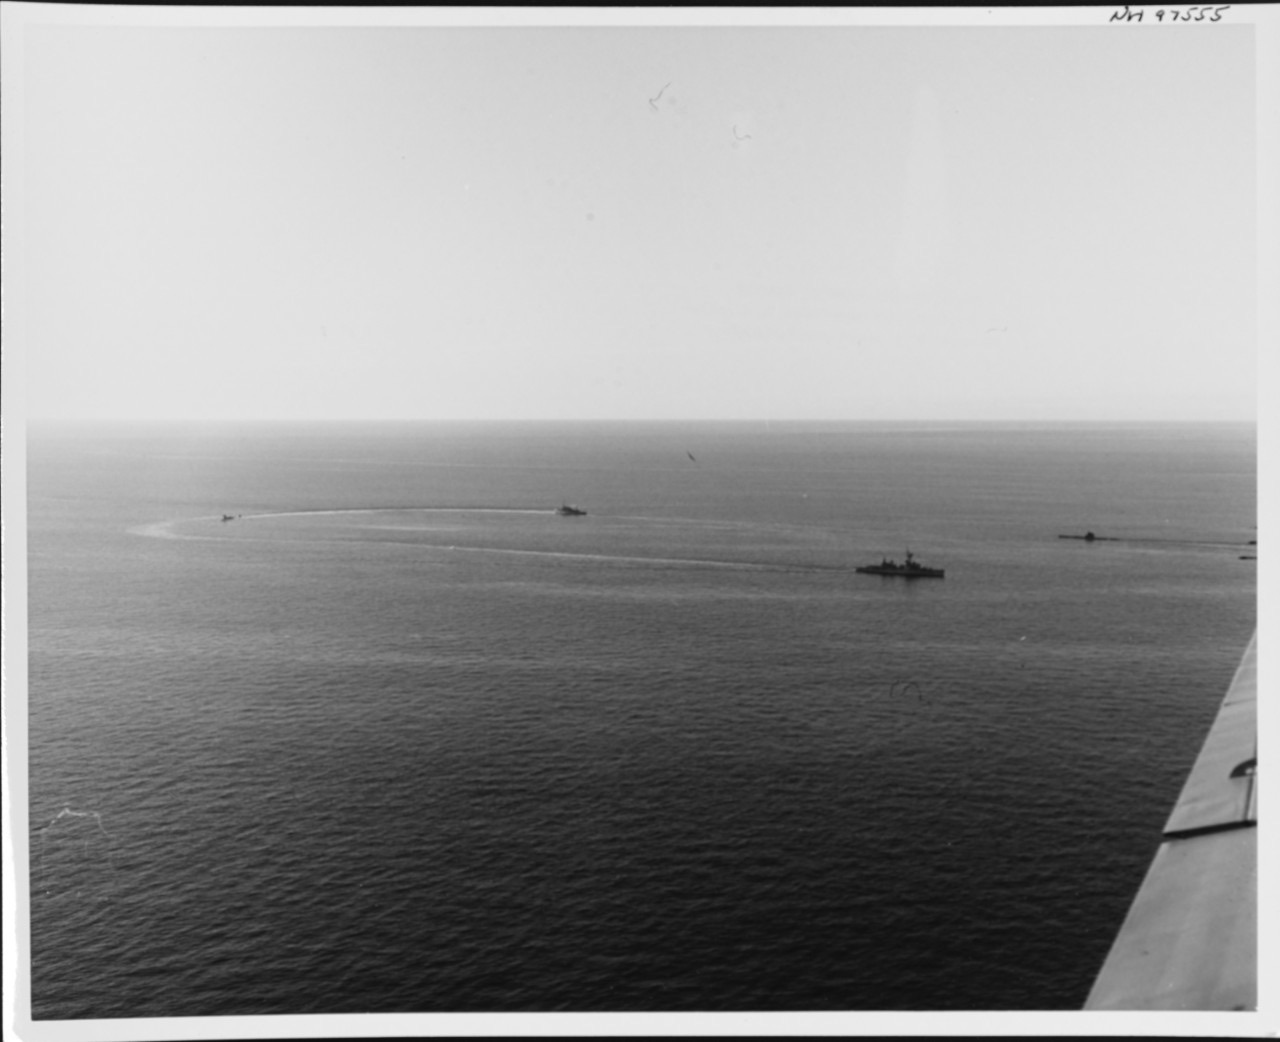
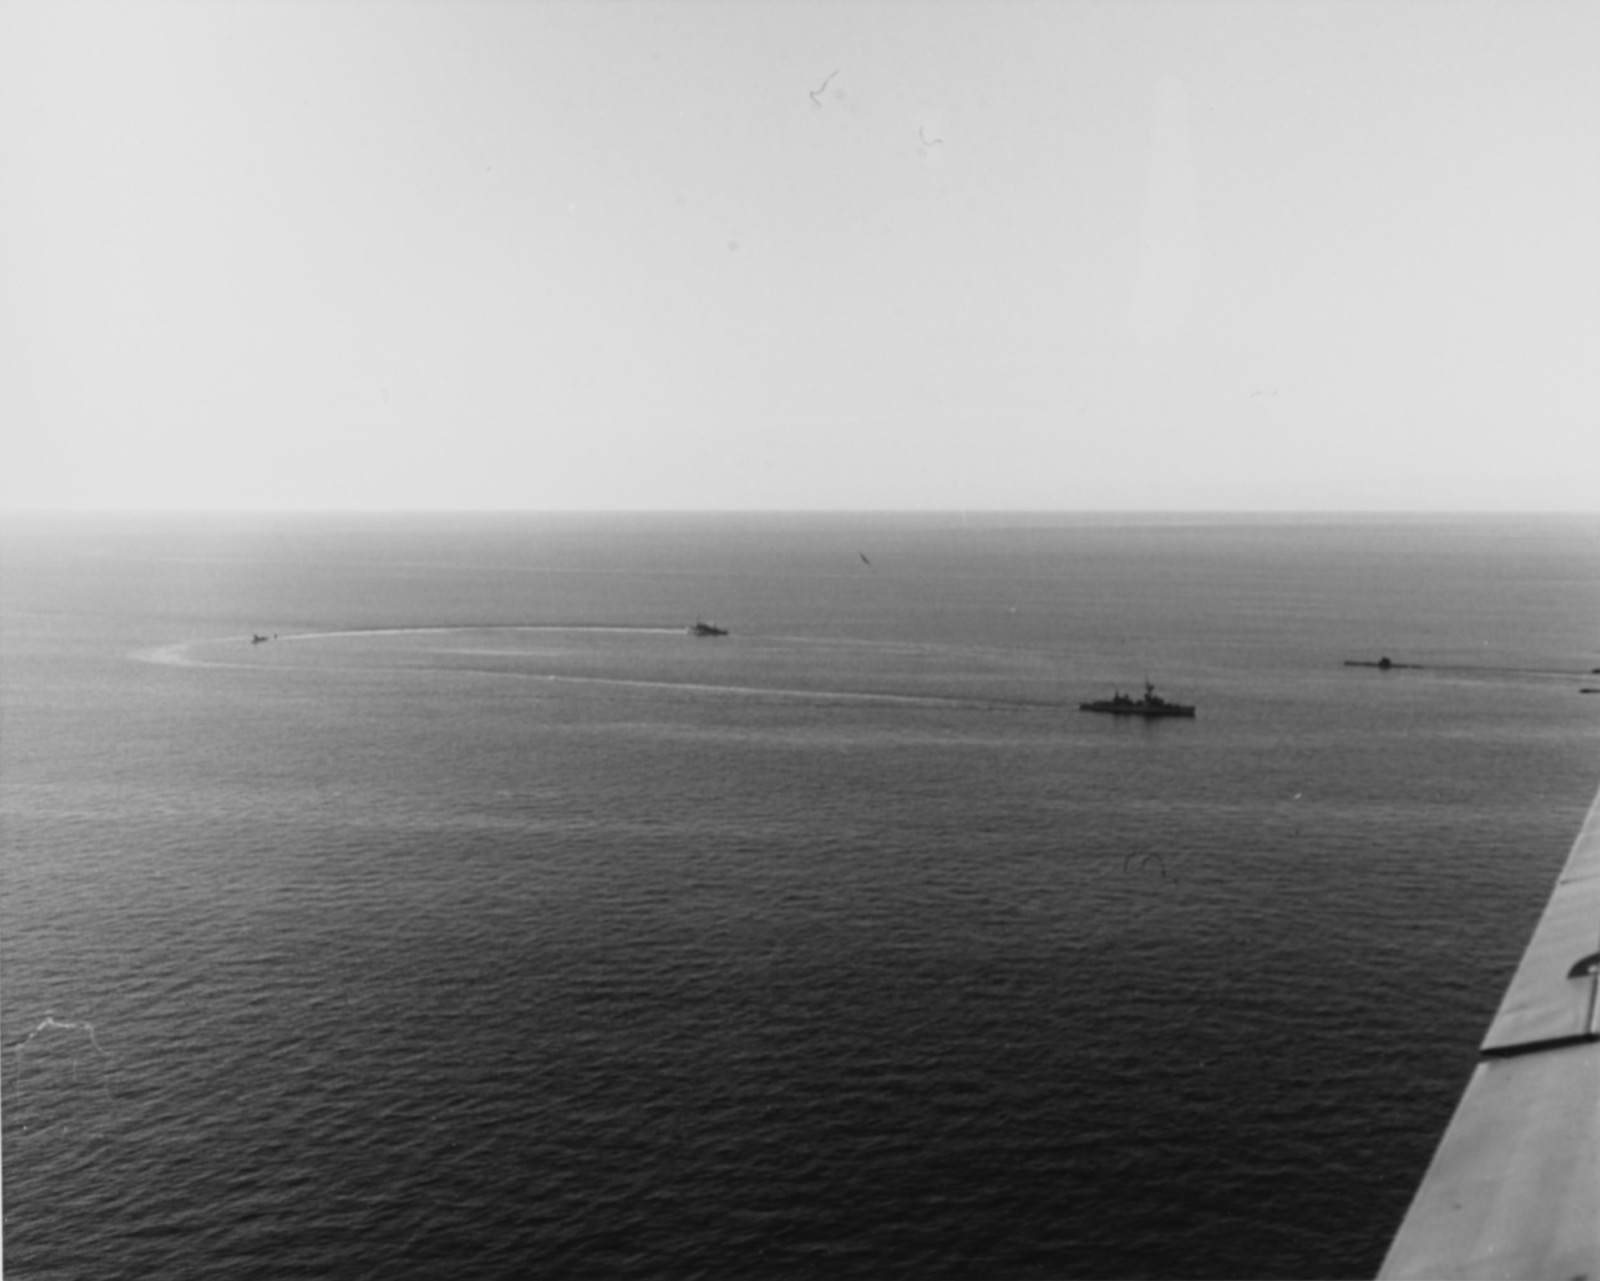
Nine Hundred North: figure tidy-ups from the rights audit
Crop the print borders and handwritten catalogue numbers off the three NHHC
prints (NH 97549 and NH 97555 now from the original TIFFs at 1,600 px, NH 97310
from the medium rendition); correct the Atlantis II debris photograph's date to
May 1963 (released 22 May 1963) in the caption, the text and the younger version.

diff --git a/_posts/2026-10-20-nine-hundred-north.md b/_posts/2026-10-20-nine-hundred-north.md
@@ -120,11 +120,11 @@ Congress's Joint Committee on Atomic Energy, whose staff had sat through the clo
 
 Rickover's testimony on 23 July was the longest. The silver brazing, he said, was a symptom, and "the worst thing that could happen would be for this committee to get off on a sidetrack and think the real issue in the Thresher was this silver brazing versus welding." The issue was that the ship had been built to two standards, his and the Bureau's, and that outside his compartment the specifications were treated as goals. "We are sitting on a quality control precipice where slight deviations can result in unsatisfactory or unsafe products." In the five or six years of her design and building, he counted, Portsmouth had had three shipyard commanders, five planning officers and three design superintendents, and the Bureau two chiefs. "The inadequate ballast tank blowing system is a case in point: Who is responsible? With the present Navy system, this is an almost impossible question to answer." He read the committee what he had told it two years before about the SL-1 reactor accident: "Responsibility is a unique concept: it can only reside and inhere in a single individual. You may share it with others, but your portion is not diminished."
 
-In June a camera towed from the research ship *Atlantis II* photographed scattered debris on the bottom. The bathyscaph *Trieste*, brought from San Diego, made two series of dives, the first from 24 to 30 June and the second in late August, and on 24 August photographed a section of sonar dome and the draft marks 4, 3 and 0 on a piece of hull; the Navy released the pictures in the first week of September. The following summer the research ship *Mizar* found the wreck in five main pieces spread over about a mile. All submarines had meanwhile been restricted to 500 feet.
+In the third week of May a camera towed from the research ship *Atlantis II* photographed scattered debris on the bottom. The bathyscaph *Trieste*, brought from San Diego, made two series of dives, the first from 24 to 30 June and the second in late August, and on 24 August photographed a section of sonar dome and the draft marks 4, 3 and 0 on a piece of hull; the Navy released the pictures in the first week of September. The following summer the research ship *Mizar* found the wreck in five main pieces spread over about a mile. All submarines had meanwhile been restricted to 500 feet.
 
 <figure>
   <img src="/static/img/nine-hundred-north/atlantis-ii-debris-1963.jpg" alt="A grainy photograph of the sea floor from above, with a pale rectangular sheet of metal, a dark twisted object and small round shapes on the mud">
-  <figcaption>Debris on the sea floor at 8,400 feet, photographed by a camera towed from the research vessel <em>Atlantis II</em> in June 1963. The Navy's caption said the pictures were "not conclusive evidence" of the submarine's position; the round objects are sea urchins. US Navy photograph USN 711302, National Museum of the US Navy.</figcaption>
+  <figcaption>Debris on the sea floor at 8,400 feet, photographed by a camera towed from the research vessel <em>Atlantis II</em> in May 1963 and released on 22 May. The Navy's caption said the pictures were "not conclusive evidence" of the submarine's position; the round objects are sea urchins. US Navy photograph USN 711302, National Museum of the US Navy.</figcaption>
 </figure>
 
 <figure>

diff --git a/_includes/young/nine-hundred-north.md b/_includes/young/nine-hundred-north.md
@@ -67,7 +67,7 @@ The court listed the brazed joints first among the likely places the water came 
 
 Congress held its own hearings. Admiral Rickover told them that the real lesson was not brazing against welding. It was that the ship had been built to two standards, a strict one for the reactor and a loose one for everything else, and that in the loose part of the ship the rules had been treated as targets to aim at rather than as rules. He put the joint problem in two sentences: "They would find a percentage wrong in a sample. Then they would only repair those they found wrong in that sample."
 
-The search went on all summer. In June a camera towed across the bottom photographed scraps of metal. In August a deep-diving craft called the *Trieste* photographed a piece of *Thresher*'s sonar dome lying on the mud. The following year the wreck was found, broken into five big pieces.
+The search went on all summer. In May a camera towed across the bottom photographed scraps of metal. In August a deep-diving craft called the *Trieste* photographed a piece of *Thresher*'s sonar dome lying on the mud. The following year the wreck was found, broken into five big pieces.
 
 <figure>
   <img src="/static/img/nine-hundred-north/trieste-sonar-dome-1963.jpg" alt="A close photograph of torn, pale metal plating lying on dark mud, with a round fitting and a broken frame">
